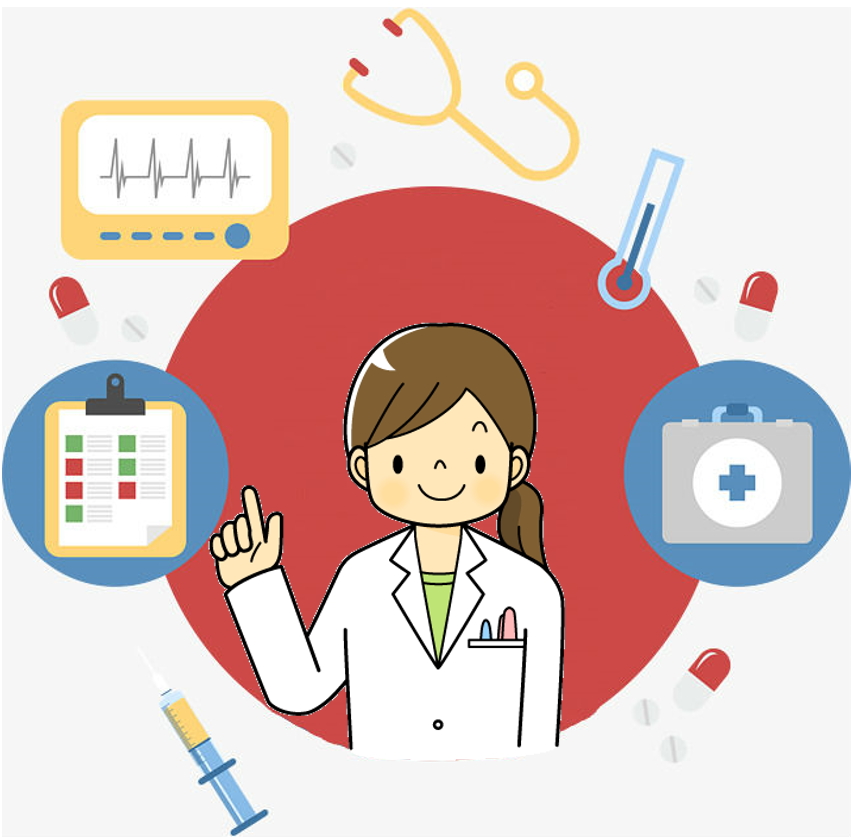
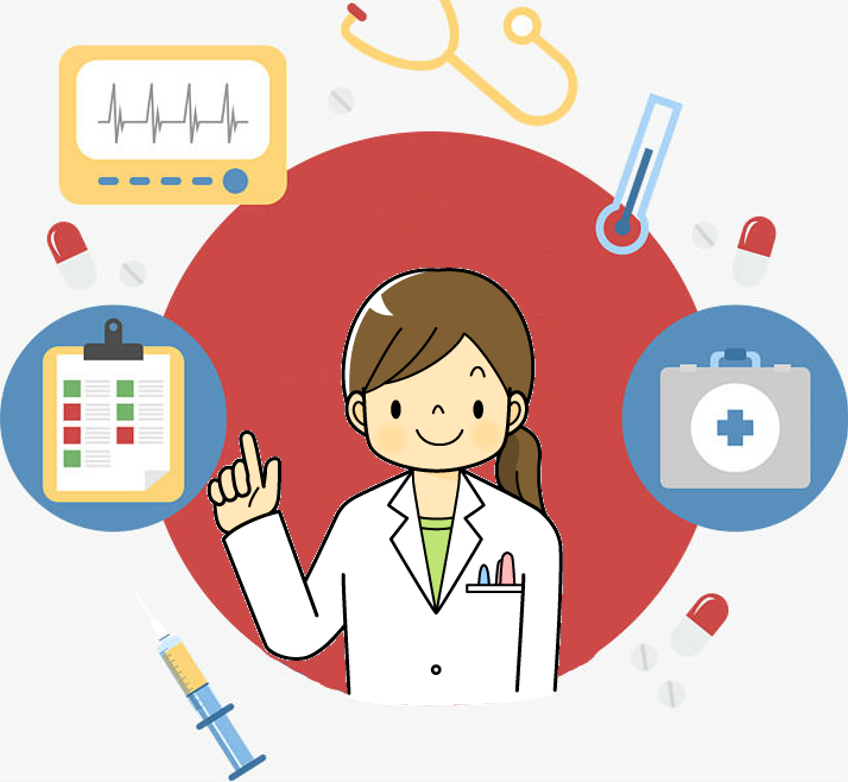
Noves fotos

diff --git a/seguiment_patologia_tensio.html b/seguiment_patologia_tensio.html
@@ -82,7 +82,7 @@
                     <i class="fa fa-bars w3-bar-item w3-right w3-text-white" onclick="w3_open()" style="margin-top:5px"></i>
                 </div>
                 <div class="w3-container" style="padding-top:0">
-                    <div class="w3-card-4 w3-round-large w3-margin-top w3-display-container" style="background-image: url('images/nurse-material.jpg'); background-position: bottom; background-size: cover; background-position: center; height:200px;">
+                    <div class="w3-card-4 w3-round-large w3-margin-top w3-display-container" style="background-image: url('images/Captura.PNG'); background-position: bottom; background-size: cover; background-position: center; height:200px;">
                         <div class="w3-display-bottommiddle w3-row w3-text-gray" style="background-color:rgba(255, 255, 255, 0.8); width: 100%; border-bottom-left-radius: inherit; border-bottom-right-radius: inherit;">
                             <div class="w3-col l4 s4 w3-center">
                                 <h2 class="" style="margin-bottom: 0px;font-size:15px">

diff --git a/seguiment_patologia.html b/seguiment_patologia.html
@@ -82,7 +82,7 @@
                     <i class="fa fa-bars w3-bar-item w3-right w3-text-white" onclick="w3_open()" style="margin-top:5px"></i>
                 </div>
                 <div class="w3-container" style="padding-top:0">
-                    <div class="w3-card-4 w3-round-large w3-margin-top w3-display-container" style="background-image: url('images/nurse-material.jpg'); background-position: bottom; background-size: cover; background-position: center; height:200px;">
+                    <div class="w3-card-4 w3-round-large w3-margin-top w3-display-container" style="background-image: url('images/Captura.PNG');background-size: cover; background-position: center; height:200px;">
                         <div class="w3-display-bottommiddle w3-row w3-text-gray" style="background-color:rgba(255, 255, 255, 0.8); width: 100%; border-bottom-left-radius: inherit; border-bottom-right-radius: inherit;">
                             <div class="w3-col l4 s4 w3-center">
                                 <h2 class="" style="margin-bottom: 0px;font-size:15px">

diff --git a/seguiment_patologia_2.html b/seguiment_patologia_2.html
@@ -84,7 +84,7 @@
                     <i class="fa fa-bars w3-bar-item w3-right w3-text-white" onclick="w3_open()" style="margin-top:5px"></i>
                 </div>
                 <div class="w3-container" style="padding-top:0">
-                    <div class="w3-card-4 w3-round-large w3-margin-top w3-display-container" style="background-image: url('images/nurse-material.jpg'); background-position: bottom; background-size: cover; background-position: center; height:200px;">
+                    <div class="w3-card-4 w3-round-large w3-margin-top w3-display-container" style="background-image: url('images/Captura.png'); background-position: center; background-size: cover; height:200px;">
                         <div class="w3-display-topmiddle w3-row w3-text-gray w3-center" style="background-color:rgba(255, 255, 255, 0.8); width: 100%; border-top-left-radius: inherit; border-top-right-radius: inherit;">
                             <h3><b id="nom-malaltia">Tensió arterial</b></h3>
                         </div>
